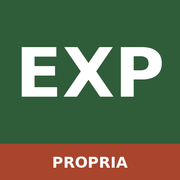
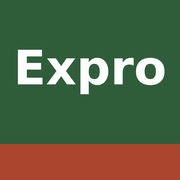
ExPropria 0.13.14: ícone com «Expro»
Claude-Session: https://claude.ai/code/session_01WmKbAz9Cc2mBjezjkKT2Gw

Changed region(s): [[0.0833, 0.25, 0.9167, 0.5556], [0.2778, 0.8611, 0.7222, 0.9444]]

diff --git a/expropria/index.html b/expropria/index.html
@@ -1,5 +1,8 @@
 <!doctype html>
 <!--
+ExPropria v0.13.14 — resumo
+- Ícone com as letras «Expro».
+
 ExPropria v0.13.13 — resumo
 - 🧮 Em qualquer cálculo (rotação, eucaliptal, pinhal): botões «Somar outro rendimento neste terreno» – passa para a soma de rendimentos, mantendo o cálculo atual como bloco A.
 
@@ -541,7 +544,7 @@ Exprop v0.6.0 — resumo
 <meta name="apple-mobile-web-app-title" content="ExPropria">
 <meta name="theme-color" content="#2f5d3a">
 <title>ExPropria</title>
-<link rel="apple-touch-icon" href="icon-180.png">
+<link rel="apple-touch-icon" href="icon-180.png?v=expro">
 <link rel="manifest" href="manifest.webmanifest">
 <style>
 :root{--bg:#f4f5f0;--card:#fff;--ink:#1d2733;--mute:#5d6b7a;--line:#d6dde4;--pri:#2f5d3a;--pri2:#a8452c;--ok:#2e7d32;--okbg:#e8f5e9;--warn:#b26a00;--warnbg:#fff4e0;--bad:#c62828;--badbg:#fdecea;--safe:150px}
@@ -745,7 +748,7 @@ https://github.com/nodeca/pako/blob/main/LICENSE
 
 <script>
 'use strict';
-const VERSION='0.13.13';const VERSION_DATA='2026-11-18';/* data da release: atualizar sempre com VERSION */
+const VERSION='0.13.14';const VERSION_DATA='2026-11-18';/* data da release: atualizar sempre com VERSION */
 function growFit(t){if(!t||!t.classList?.contains('grow')||!t.offsetParent)return;t.style.height='auto';t.style.height=(t.scrollHeight+2)+'px'}
 function growAll(root){(root||document).querySelectorAll('textarea.grow').forEach(growFit)}
 document.addEventListener('input',e=>growFit(e.target),true);
